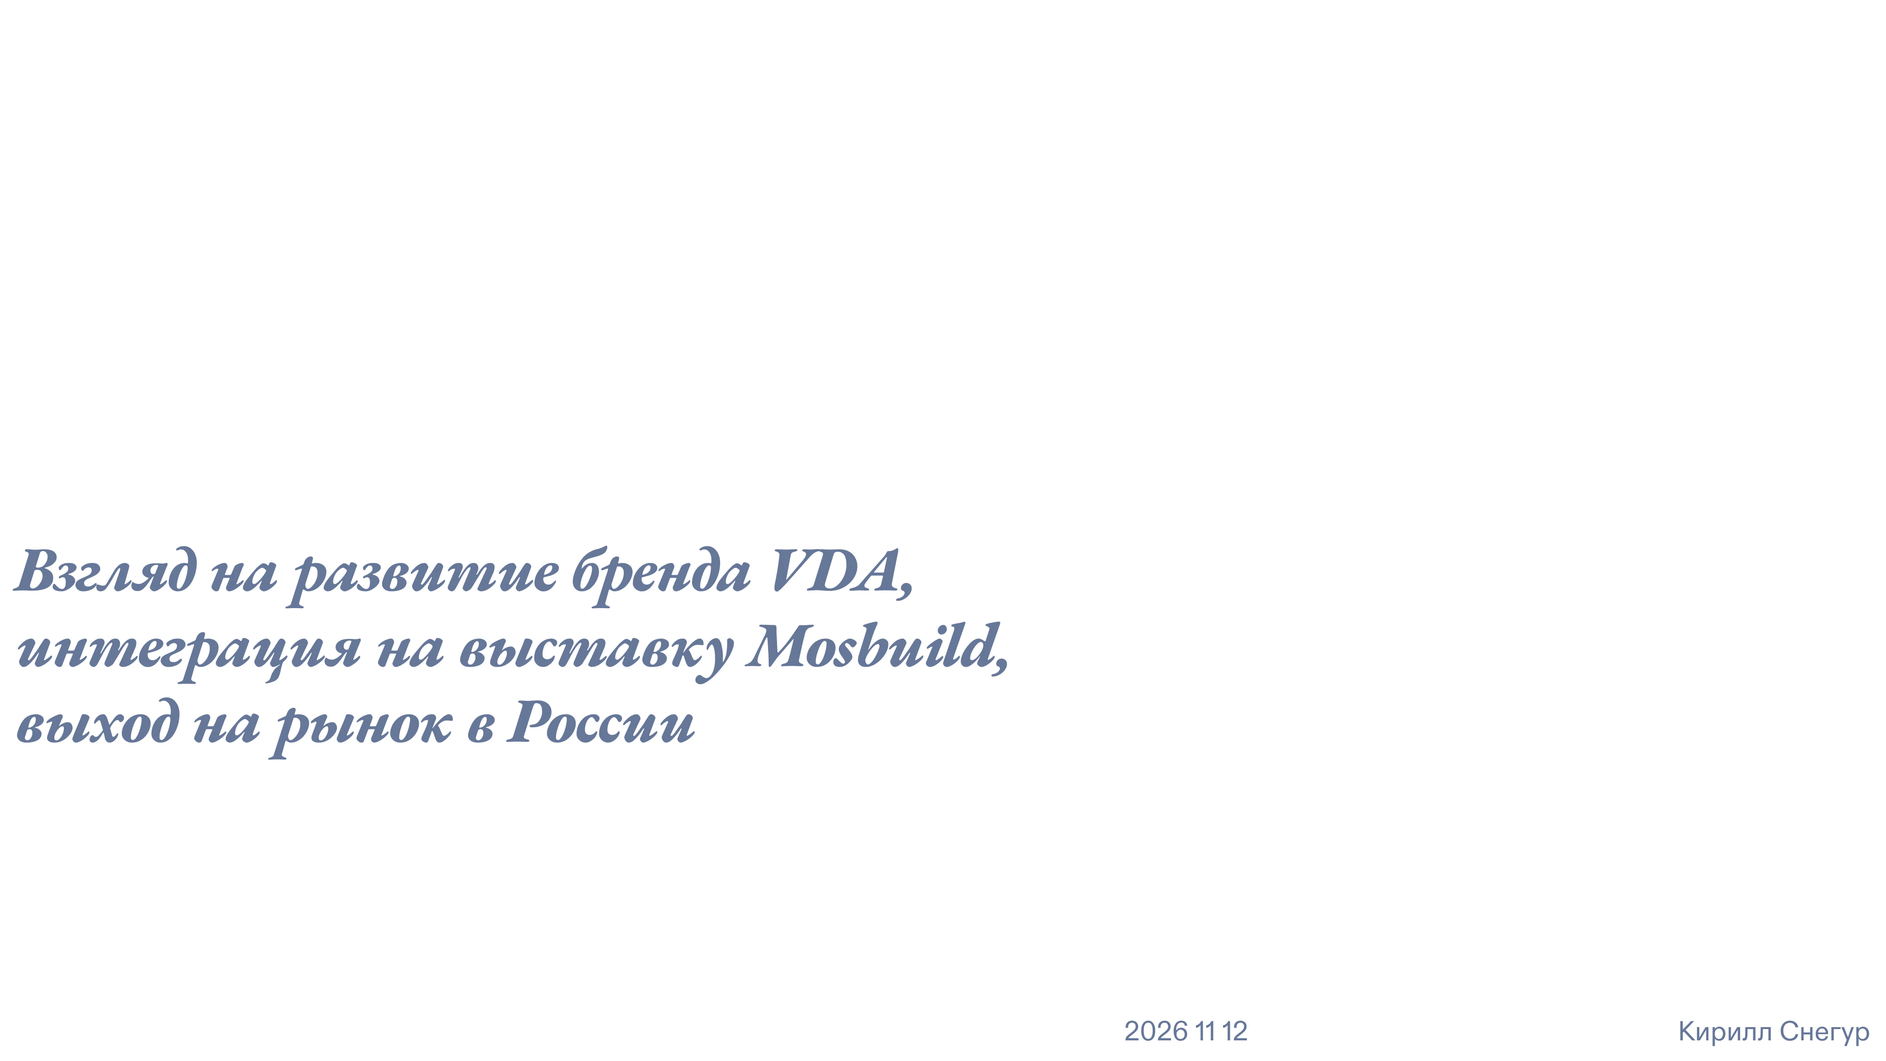
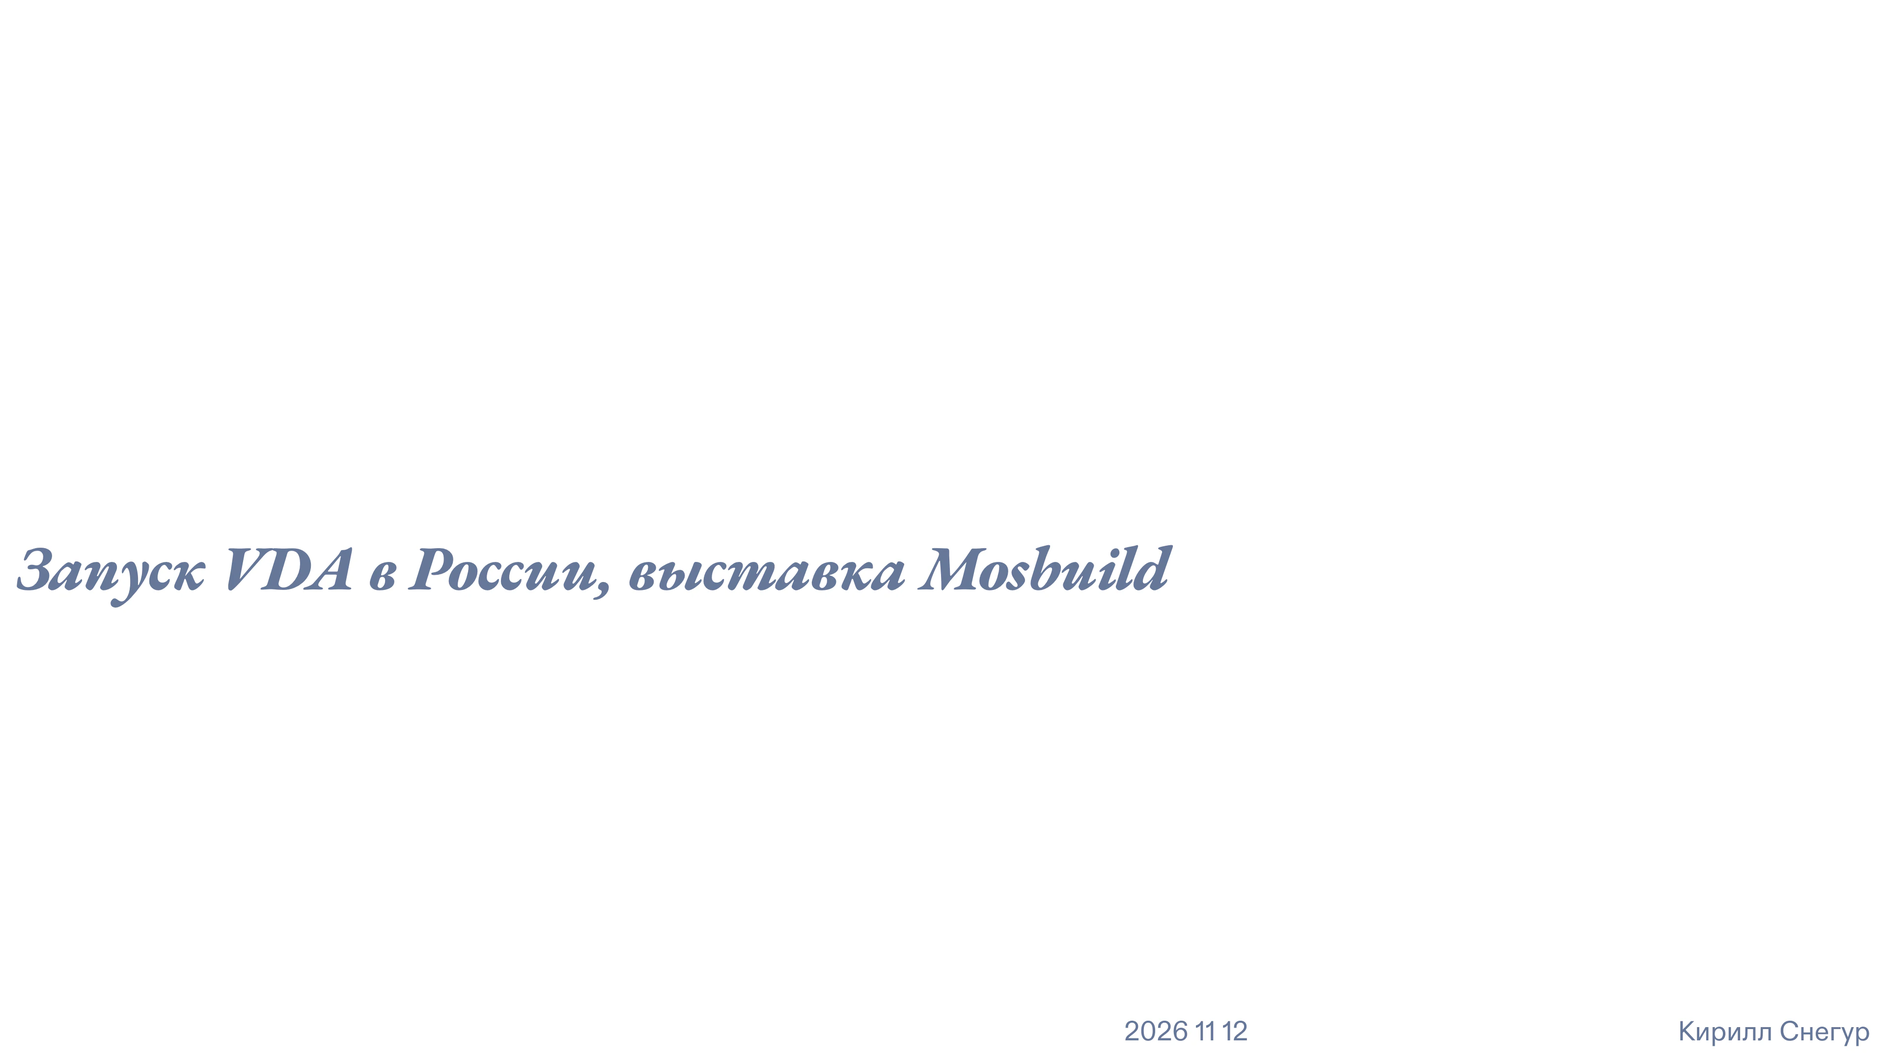
/vds-mosbuild: new cover title, slide 4 copy, slide 6 paragraph, «.идем.дальше.»
Page text updated, and the desktop renders re-set to match: cover and
closing lines in EB Garamond, slide 4 body, and slide 6 re-laid out like
Figma's auto-layout — the extra paragraph pushes the photos down and they
shrink, captions stay put. Changed renders get ?v=2 to bypass caches.
Phone closing title sized to fill the measure.

Changed region(s): [[0.0, 0.5894, 0.5312, 0.7134], [0.0, 0.4963, 0.625, 0.5583]]

diff --git a/vds-mosbuild/index.html b/vds-mosbuild/index.html
@@ -3,15 +3,15 @@
 <head>
 <meta charset="utf-8">
 <meta name="viewport" content="width=device-width, initial-scale=1, viewport-fit=cover">
-<title>VDA — запуск в России, интеграция на MosBuild — Кирилл Снегур</title>
-<meta name="description" content="Взгляд на развитие бренда VDA, интеграция на выставку MosBuild, выход на рынок в России.">
+<title>Запуск VDA в России, выставка Mosbuild — Кирилл Снегур</title>
+<meta name="description" content="Запуск VDA в России, выставка Mosbuild: стенд по концепции Капсулы сути, интерактивный опыт, медийная команда.">
 <meta name="theme-color" content="#ffffff">
 <meta name="robots" content="noindex, nofollow">
 <meta property="og:type" content="website">
-<meta property="og:title" content="VDA — запуск в России">
-<meta property="og:description" content="Взгляд на развитие бренда VDA, интеграция на выставку MosBuild, выход на рынок в России.">
+<meta property="og:title" content="Запуск VDA в России, выставка Mosbuild">
+<meta property="og:description" content="Запуск VDA в России, выставка Mosbuild: стенд по концепции Капсулы сути, интерактивный опыт, медийная команда.">
 <link rel="preload" href="../deck/fonts/abc-diatype-cyrillic-regular.woff2" as="font" type="font/woff2" crossorigin>
-<link rel="stylesheet" href="../deck/deck.css?v=2">
+<link rel="stylesheet" href="../deck/deck.css?v=3">
 </head>
 <body>
 <!-- Source: Figma Slides am9SWogTDBV9KCyPAYmPPZ, slides 1 and 3–8 (slide 2 «Контекст» and the skipped slide «-» are left out;
@@ -26,10 +26,10 @@
   <!-- 1 · cover -->
   <section class="slide" aria-label="Слайд 1" data-no-head>
     <div class="canvas">
-      <img src="../assets/vds-mosbuild/%D0%A1%D0%B6%D0%B0%D1%82%D1%8B%D0%B5/s01.webp" srcset="../assets/vds-mosbuild/%D0%A1%D0%B6%D0%B0%D1%82%D1%8B%D0%B5/s01.webp 1920w, ../assets/vds-mosbuild/%D0%A1%D0%B6%D0%B0%D1%82%D1%8B%D0%B5/s01@2x.webp 3840w" sizes="min(100vw, 177.78vh)" width="1920" height="1080" alt="Взгляд на развитие бренда VDA, интеграция на выставку Mosbuild, выход на рынок в России. 2026 11 12, Кирилл Снегур">
+      <img src="../assets/vds-mosbuild/%D0%A1%D0%B6%D0%B0%D1%82%D1%8B%D0%B5/s01.webp?v=2" srcset="../assets/vds-mosbuild/%D0%A1%D0%B6%D0%B0%D1%82%D1%8B%D0%B5/s01.webp?v=2 1920w, ../assets/vds-mosbuild/%D0%A1%D0%B6%D0%B0%D1%82%D1%8B%D0%B5/s01@2x.webp?v=2 3840w" sizes="min(100vw, 177.78vh)" width="1920" height="1080" alt="Запуск VDA в России, выставка Mosbuild. 2026 11 12, Кирилл Снегур">
     </div>
     <div class="part part--cover">
-      <h1 class="display">Взгляд на развитие бренда VDA, интеграция на выставку Mosbuild,<br>выход на&nbsp;рынок в&nbsp;России</h1>
+      <h1 class="display">Запуск VDA в&nbsp;России, выставка Mosbuild</h1>
       <p class="foot"><span>2026 11 12</span><span>Кирилл Снегур</span></p>
     </div>
   </section>
@@ -76,15 +76,13 @@
   <!-- 4 · text -->
   <section class="slide" aria-label="Слайд 4">
     <div class="canvas">
-      <img src="../assets/vds-mosbuild/%D0%A1%D0%B6%D0%B0%D1%82%D1%8B%D0%B5/s05.webp" srcset="../assets/vds-mosbuild/%D0%A1%D0%B6%D0%B0%D1%82%D1%8B%D0%B5/s05.webp 1920w, ../assets/vds-mosbuild/%D0%A1%D0%B6%D0%B0%D1%82%D1%8B%D0%B5/s05@2x.webp 3840w" sizes="min(100vw, 177.78vh)" width="1920" height="1080" alt="Интеграция на MosBuild: Капсула сути" loading="lazy">
+      <img src="../assets/vds-mosbuild/%D0%A1%D0%B6%D0%B0%D1%82%D1%8B%D0%B5/s05.webp?v=2" srcset="../assets/vds-mosbuild/%D0%A1%D0%B6%D0%B0%D1%82%D1%8B%D0%B5/s05.webp?v=2 1920w, ../assets/vds-mosbuild/%D0%A1%D0%B6%D0%B0%D1%82%D1%8B%D0%B5/s05@2x.webp?v=2 3840w" sizes="min(100vw, 177.78vh)" width="1920" height="1080" alt="Интеграция на MosBuild: Капсула сути" loading="lazy">
     </div>
     <div class="part part--text">
       <h2>Интеграция на MosBuild: Капсула сути</h2>
       <div>
-        <p>Также стоит заметить, в&nbsp;современном маркетинге заметна корреляция между шириной присутствия компании. Другими словами, растет количество касаний в&nbsp;пути клиента от знакомства с&nbsp;брендом до заключения контракта. Это особенно актуально для строительного рынка, как сферы сформированной, красного океана.</p>
-        <p>Принимая во внимание, что у&nbsp;Виктора уже есть опыт в&nbsp;подкастах и, полагаю, интерес к&nbsp;их развитию, вижу сейчас, как первое решение, реализовать стенд на выставке по концепции Капсулы сути — специализированной студии для записи подкаста на 2-х человек.</p>
-        <p>Так, на стенде мы решим 2&nbsp;задачи: покажем материал в&nbsp;реализации объекта, это то, зачем идут целевые клиенты, строители, а&nbsp;также проведем серию диалогов, которые сформируют контент на несколько месяцев вперед, вовлекут в&nbsp;партнерство представителей компаний, которых мы пригласим быть спикерами подкаста.</p>
-        <p>Подобная концепция уже была представлена на выставке АРХ Москва, а&nbsp;на Мосбилд она будет впервые. Мы можем реализовать ее совместно с&nbsp;авторской командой — архитектурное бюро Гафа, производитель керамических панелей Архскин, или же пойти в&nbsp;реализацию своими силами, но под другим названием.</p>
+        <p>Предлагаю сейчас, как первое решение, реализовать стенд на выставке в&nbsp;партнерстве с&nbsp;архитектурным бюро Гафа по концепции Капсулы сути — специализированной студии для записи подкаста на 2-х человек. Подобная концепция уже была представлена на выставке АРХ Москва, а&nbsp;на Мосбилд она будет впервые.</p>
+        <p>Это органично сочетается с&nbsp;опытом Виктора, и&nbsp;так на стенде мы решим 2&nbsp;задачи: покажем материал в&nbsp;реализации объекта и&nbsp;вовлечем партнеров в&nbsp;диалог. Также сформируем контент вперед.</p>
       </div>
     </div>
   </section>
@@ -128,14 +126,15 @@
   <!-- 6 · text + two photos -->
   <section class="slide" aria-label="Слайд 6">
     <div class="canvas">
-      <img src="../assets/vds-mosbuild/%D0%A1%D0%B6%D0%B0%D1%82%D1%8B%D0%B5/s07.webp" srcset="../assets/vds-mosbuild/%D0%A1%D0%B6%D0%B0%D1%82%D1%8B%D0%B5/s07.webp 1920w, ../assets/vds-mosbuild/%D0%A1%D0%B6%D0%B0%D1%82%D1%8B%D0%B5/s07@2x.webp 3840w" sizes="min(100vw, 177.78vh)" width="1920" height="1080" alt="Интеграция на MosBuild: Интерактивный опыт" loading="lazy">
+      <img src="../assets/vds-mosbuild/%D0%A1%D0%B6%D0%B0%D1%82%D1%8B%D0%B5/s07.webp?v=2" srcset="../assets/vds-mosbuild/%D0%A1%D0%B6%D0%B0%D1%82%D1%8B%D0%B5/s07.webp?v=2 1920w, ../assets/vds-mosbuild/%D0%A1%D0%B6%D0%B0%D1%82%D1%8B%D0%B5/s07@2x.webp?v=2 3840w" sizes="min(100vw, 177.78vh)" width="1920" height="1080" alt="Интеграция на MosBuild: Интерактивный опыт" loading="lazy">
       <a class="hot" href="https://random.studio/projects/a-moving-sanctuary-for-lexus" target="_blank" rel="noopener" data-rect="16 1036 437 28">Random studio — Moving Sanctuary for Lexus</a>
       <a class="hot" href="https://www.gentle.systems/page/otto" target="_blank" rel="noopener" data-rect="974 1036 462 28">Gentle Systems — Otto, Robotic Choreographies</a>
     </div>
     <div class="part part--text">
       <h2>Интеграция на MosBuild: Интерактивный опыт</h2>
       <div>
-        <p>Альтернатива и&nbsp;классический вариант — разработать интерактивный опыт. Концепций может быть множество, но объединяет их презентация продукта через индивидуальный опыт, в&nbsp;котором человек узнает что-то в&nbsp;первую очередь про себя. Так стирается барьер и&nbsp;вовлечься в&nbsp;общение становится проще, решается проблема стендов абсолютно классических, в&nbsp;которых представитель за стойкой. Такую концепцию я&nbsp;могу разработать, для этого нужно больше пообщаться, о&nbsp;том, какие эмоции через бренд хотим создавать.</p>
+        <p>Альтернатива и&nbsp;классический вариант — разработать интерактивный опыт. Концепций может быть множество, но объединяет их презентация продукта через индивидуальный опыт, в&nbsp;котором человек узнает что-то в&nbsp;первую очередь про себя.</p>
+        <p>Так стирается барьер и&nbsp;вовлечься в&nbsp;общение становится проще, решается проблема стендов абсолютно классических, в&nbsp;которых представитель за стойкой. Такую концепцию я&nbsp;могу разработать, для этого нужно больше пообщаться, о&nbsp;том, какие эмоции через бренд хотим создавать.</p>
       </div>
     </div>
     <div class="part part--photo">
@@ -191,13 +190,13 @@
   <!-- 8 · closing (from the PDF export, Figma MCP quota was out) -->
   <section class="slide" aria-label="Слайд 8">
     <div class="canvas">
-      <img src="../assets/vds-mosbuild/%D0%A1%D0%B6%D0%B0%D1%82%D1%8B%D0%B5/s-end.webp" srcset="../assets/vds-mosbuild/%D0%A1%D0%B6%D0%B0%D1%82%D1%8B%D0%B5/s-end.webp 1920w, ../assets/vds-mosbuild/%D0%A1%D0%B6%D0%B0%D1%82%D1%8B%D0%B5/s-end@2x.webp 3840w" sizes="min(100vw, 177.78vh)" width="1920" height="1080" alt=".moving.forward. Кирилл Снегур, snegur_k / +7 999 712 97 42, snegur.space" loading="lazy">
+      <img src="../assets/vds-mosbuild/%D0%A1%D0%B6%D0%B0%D1%82%D1%8B%D0%B5/s-end.webp?v=2" srcset="../assets/vds-mosbuild/%D0%A1%D0%B6%D0%B0%D1%82%D1%8B%D0%B5/s-end.webp?v=2 1920w, ../assets/vds-mosbuild/%D0%A1%D0%B6%D0%B0%D1%82%D1%8B%D0%B5/s-end@2x.webp?v=2 3840w" sizes="min(100vw, 177.78vh)" width="1920" height="1080" alt=".идем.дальше. Кирилл Снегур, snegur_k / +7 999 712 97 42, snegur.space" loading="lazy">
       <a class="hot" href="https://t.me/snegur_k" target="_blank" rel="noopener" data-rect="964 990 120 37">Телеграм snegur_k</a>
       <a class="hot" href="tel:+79997129742" data-rect="1104 990 224 37">+7 999 712 97 42</a>
       <a class="hot" href="https://snegur.space" target="_blank" rel="noopener" data-rect="964 1027 168 37">snegur.space</a>
     </div>
     <div class="part part--closing">
-      <h2 class="display display--muted"><span class="dot">.</span>moving<span class="dot">.</span>forward<span class="dot">.</span></h2>
+      <h2 class="display display--muted"><span class="dot">.</span>идем<span class="dot">.</span>дальше<span class="dot">.</span></h2>
       <p class="contacts">Кирилл Снегур<br><a href="https://t.me/snegur_k" target="_blank" rel="noopener">snegur_k</a> / <a href="tel:+79997129742">+&nbsp;7&nbsp;999&nbsp;712&nbsp;97&nbsp;42</a><br><a href="https://snegur.space" target="_blank" rel="noopener">snegur.space</a></p>
     </div>
   </section>

diff --git a/deck/deck.css b/deck/deck.css
@@ -232,7 +232,8 @@ a { color: inherit; }
   /* closing: muted display line with ink dots, contacts at the foot */
   .part--closing { padding-top: 50dvh; }
   .part--closing .display {
-    font-size: min(calc((100vw - 2 * var(--gutter)) / 9.9), 64px);
+    /* «.идем.дальше.» is 6em wide: fill the measure */
+    font-size: min(calc((100vw - 2 * var(--gutter)) / 6.1), 96px);
     white-space: nowrap;
   }
   .display--muted { color: #cfcfcf; }

diff --git a/README.md b/README.md
@@ -358,7 +358,7 @@ x и y макета с точностью до пары пикселей.
 Презентация как веб-страница для клиентов и партнёров. Общий движок в `deck/`
 (`deck.css`, `deck.js`, `fonts/`), у каждой презентации своя папка со
 страницей, картинки — в `assets/<страница>/Сжатые/`. Первая — `/vds-mosbuild`,
-из Figma Slides `am9SWogTDBV9KCyPAYmPPZ` (8 слайдов: слайд 2 «Контекст» снят, добавлен закрывающий «.moving.forward.» — он взят из PDF-экспорта, квота Figma MCP была исчерпана; пропущенный «-» не
+из Figma Slides `am9SWogTDBV9KCyPAYmPPZ` (8 слайдов: слайд 2 «Контекст» снят, добавлен закрывающий «.идем.дальше.» — он взят из PDF-экспорта, квота Figma MCP была исчерпана; пропущенный «-» не
 показан).
 
 - **Десктоп и любой альбомный экран** — каждый слайд это его рендер из Figma
@@ -380,7 +380,7 @@ x и y макета с точностью до пары пикселей.
   и шириной блока, что в Figma; однобуквенные слова приклеены к следующему, как
   делает Figma. Проверено на исходном тексте: переносы совпали, высоты блоков
   совпали со всеми шестью. Сам файл Figma не менялся — правки только в вебе.
-  Скрипты и промежуточные PNG лежат локально в `assets/vds-mosbuild/tools/` и
+  Правки копий после публикации (обложка, слайды 4 и 6, закрывающий) — `tools/retype2.js`: там же слайд 6 раскладывается заново, как автолейаут Figma — текст вырос, фото под ним ужались. Скрипты и промежуточные PNG лежат локально в `assets/vds-mosbuild/tools/` и
   `src-fixed/` (не в git).
 - **Прогресс** сверху: на каждый слайд — линия; у разложенного слайда, пока он
   открыт, линия становится точками, по точке на часть. На десктопе прячется,
